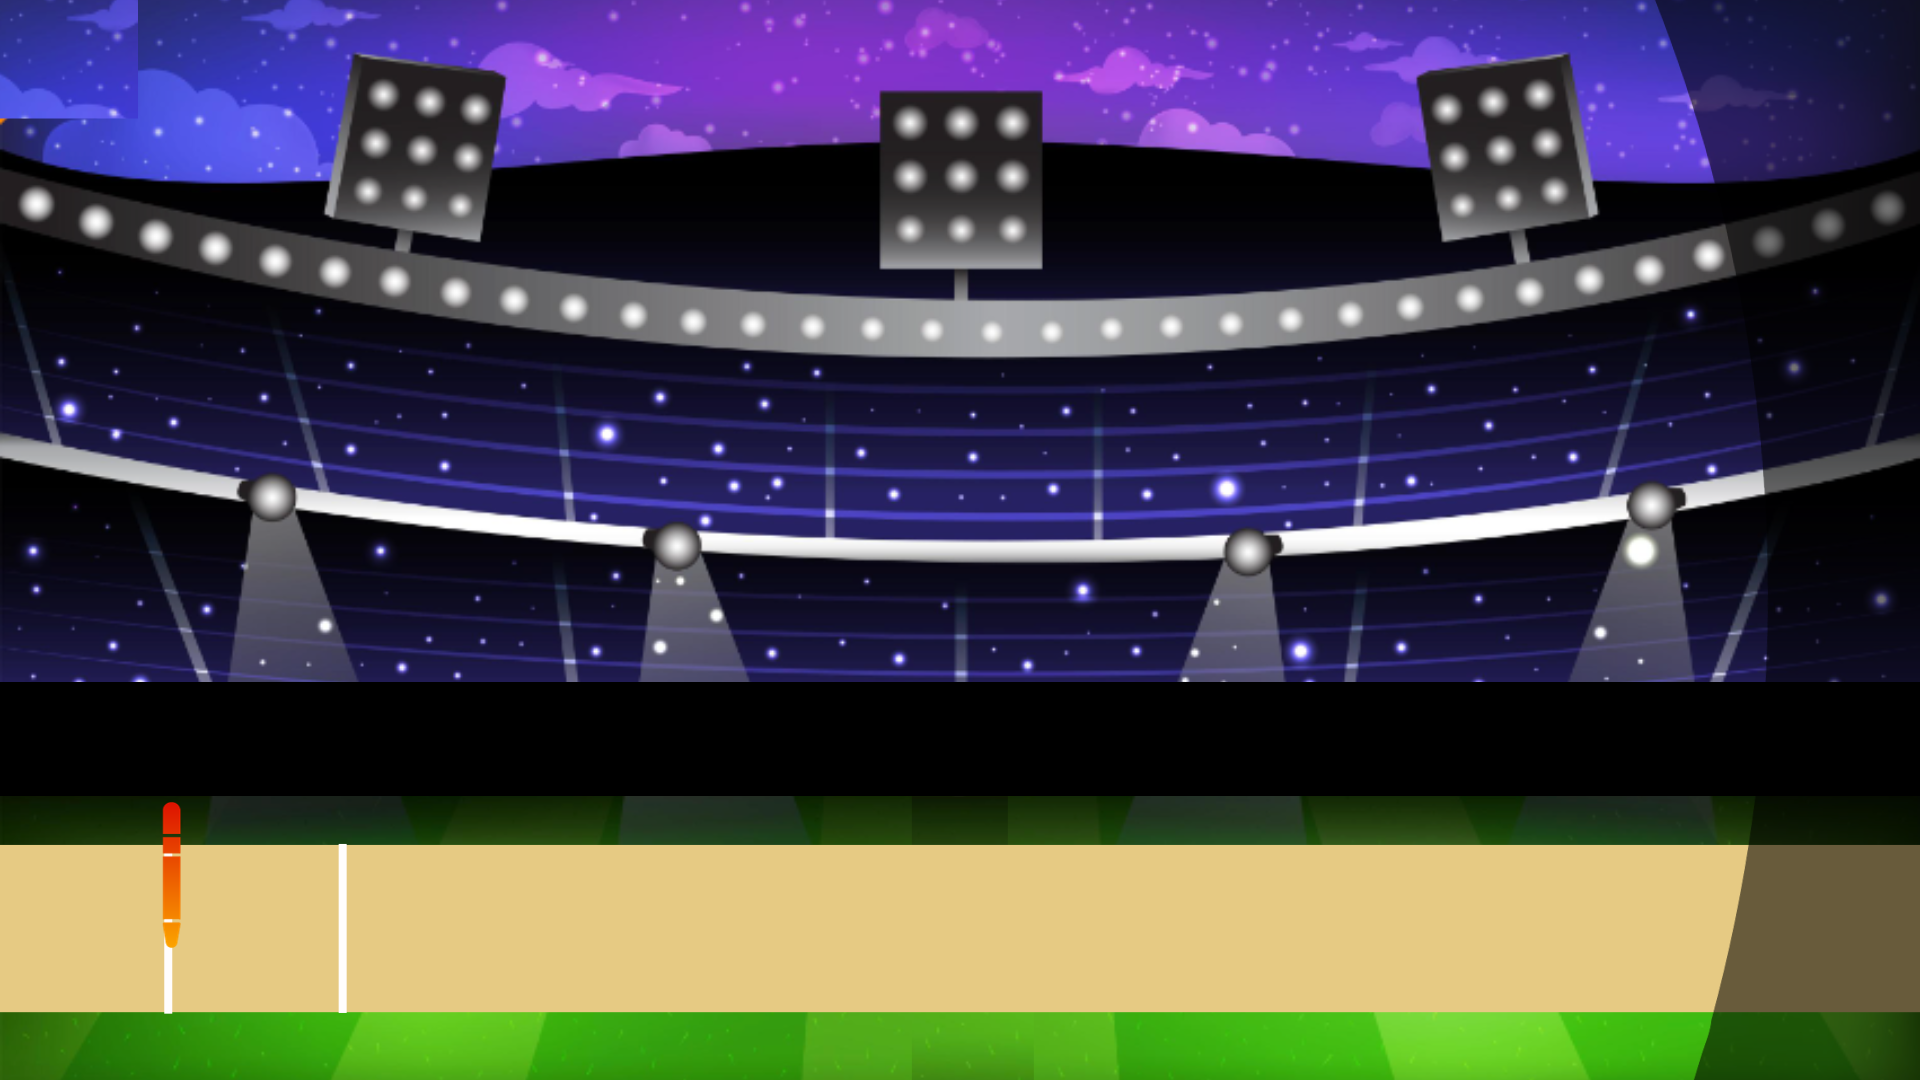
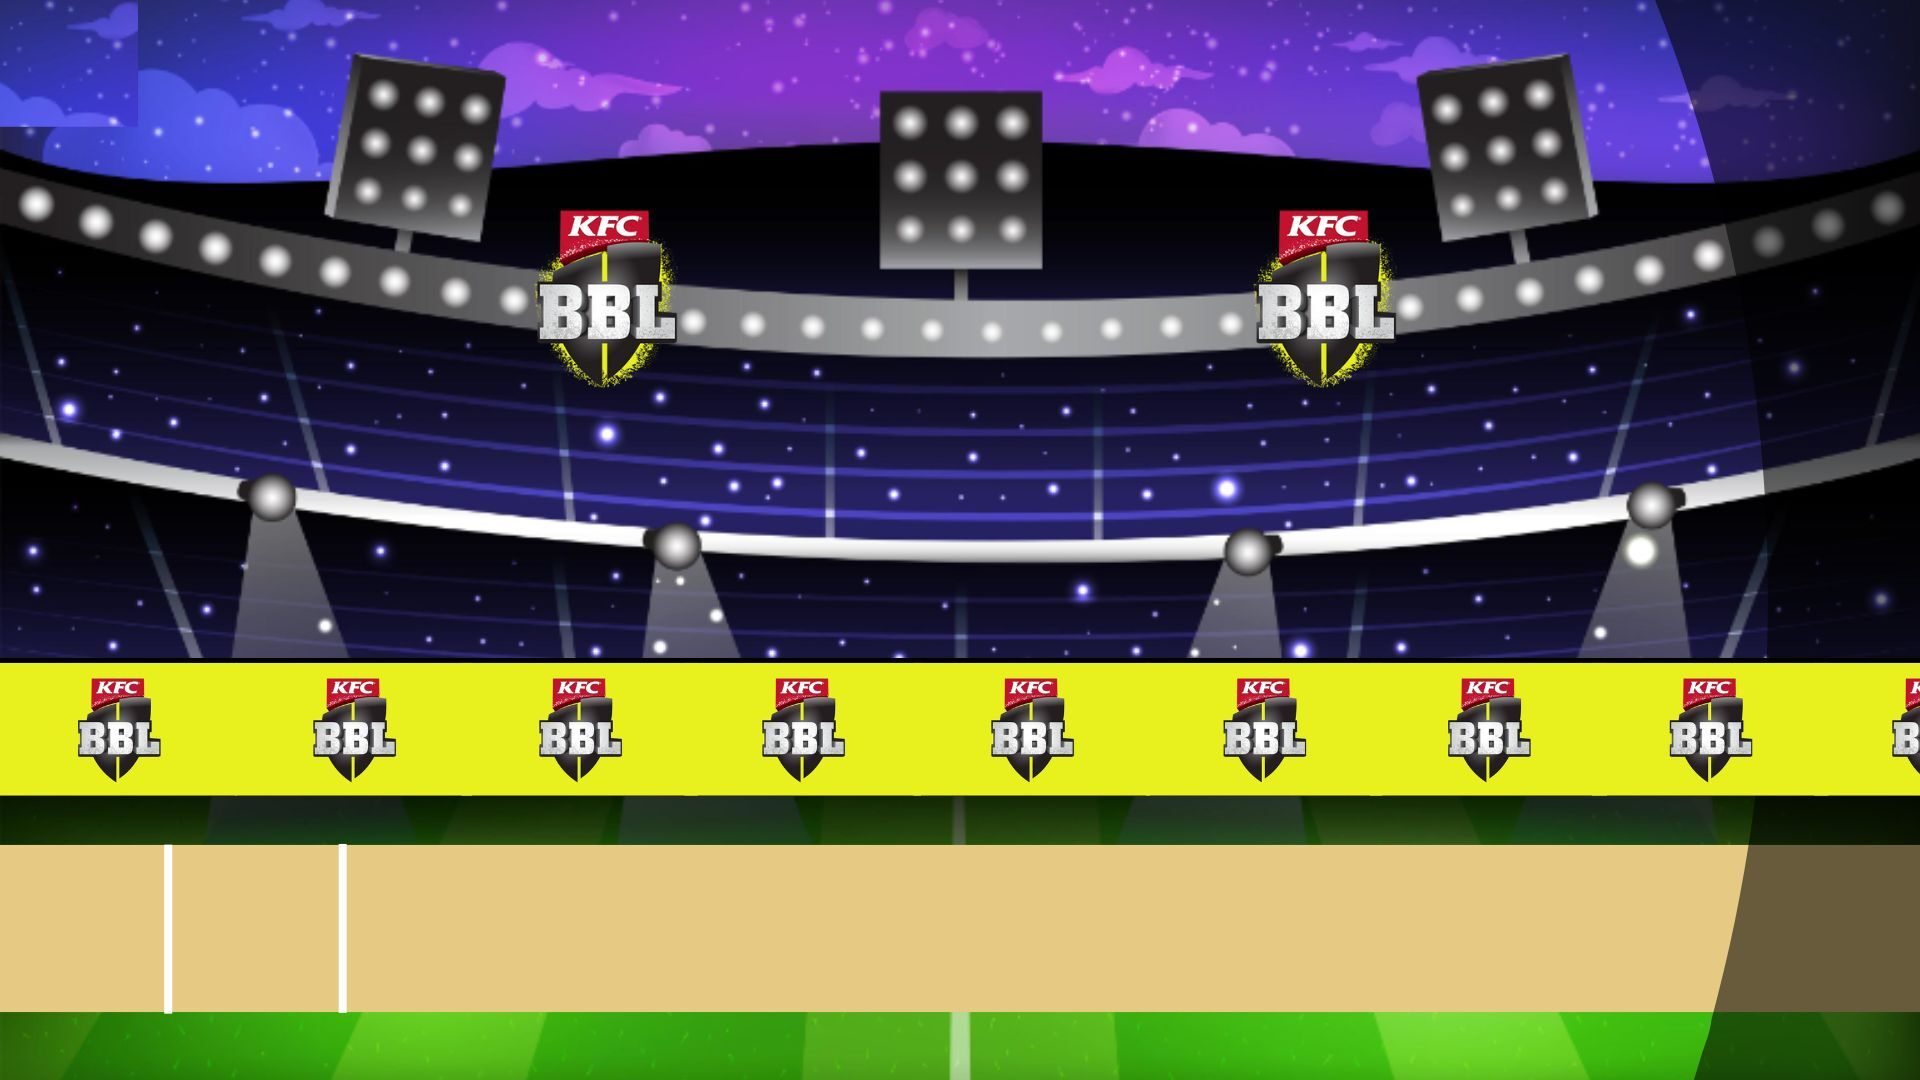
change images in cricket

diff --git a/helpers/games.js b/helpers/games.js
@@ -26,7 +26,7 @@ export const games = [
     description:
       "Unlock cricket legends, time your shots, and dominate the high score leaderboard in this precision-packed game!",
     backgroundImage:
-      "https://res.cloudinary.com/dmj6utxgp/image/upload/v1706259240/2_ca3g2n.png",
+      "https://res.cloudinary.com/dmj6utxgp/image/upload/v1730866124/Homescreen_BG-_Landscape_5_fndwey.gif",
     screenshot: "cricketsmash.jpg",
     primaryColor: "#F69B01",
     accentColor: "#0693E3",
